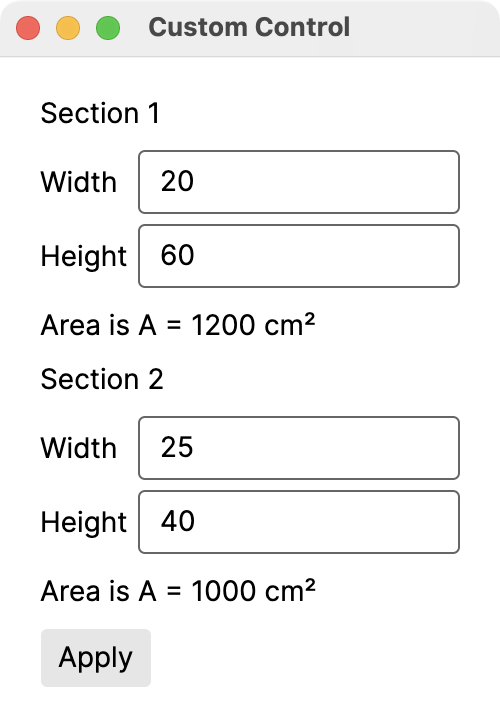
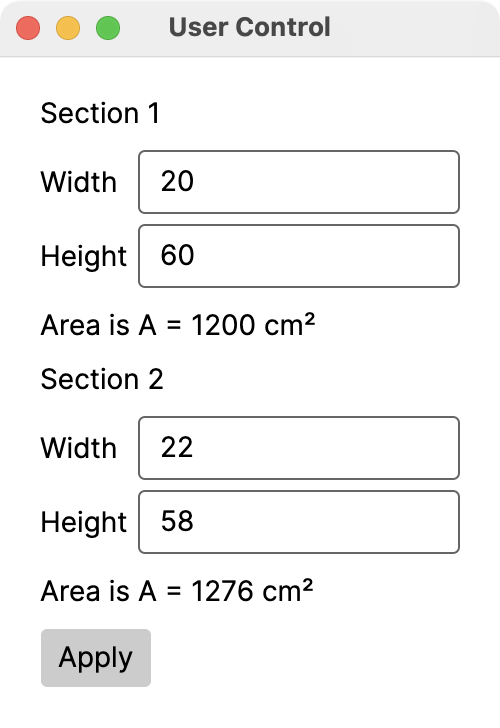
WIP

diff --git a/bausteine/10-gui/folien/projekt/11-recipe-datagrid/MainWindow.axaml.cs b/bausteine/10-gui/folien/projekt/11-recipe-datagrid/MainWindow.axaml.cs
@@ -17,14 +17,14 @@ public partial class MainWindow : Window
         this.InitializeComponent();
 
         this.PersonsDG.ItemsSource = this.Persons;
-        this.PersonsDG.AutoGeneratingColumn += this.ColumnGenerated;
+        this.PersonsDG.AutoGeneratingColumn += this.OnColumnGenerated;
 
-        this.AddRowB.Click += this.AddRowClicked;
-        this.DeleteRowB.Click += this.DeleteRowClicked;
-        this.PrintB.Click += this.PrintClicked;
+        this.AddRowB.Click += this.OnAddRowClicked;
+        this.DeleteRowB.Click += this.OnDeleteRowClicked;
+        this.PrintB.Click += this.OnPrintClicked;
     }
 
-    private void ColumnGenerated(object? sender, DataGridAutoGeneratingColumnEventArgs e)
+    public void OnColumnGenerated(object? sender, DataGridAutoGeneratingColumnEventArgs e)
     {
         if (e.PropertyName == "Age")
         {
@@ -32,7 +32,7 @@ public partial class MainWindow : Window
         }
     }
 
-    private void AddRowClicked(object? sender, RoutedEventArgs e)
+    public void OnAddRowClicked(object? sender, RoutedEventArgs e)
     {
         int row = this.PersonsDG.SelectedIndex;
 
@@ -46,7 +46,7 @@ public partial class MainWindow : Window
         }
     }
 
-    private void DeleteRowClicked(object? sender, RoutedEventArgs e)
+    public void OnDeleteRowClicked(object? sender, RoutedEventArgs e)
     {
         int row = this.PersonsDG.SelectedIndex;
 
@@ -56,7 +56,7 @@ public partial class MainWindow : Window
         }
     }
 
-    private void PrintClicked(object? sender, RoutedEventArgs e)
+    public void OnPrintClicked(object? sender, RoutedEventArgs e)
     {
         foreach (Person p in this.Persons)
         {

diff --git a/bausteine/10-gui/folien/projekt/13-good-to-know-user-control/MainWindow.axaml.cs b/bausteine/10-gui/folien/projekt/13-good-to-know-user-control/MainWindow.axaml.cs
@@ -8,10 +8,10 @@ public partial class MainWindow : Window
     public MainWindow()
     {
         this.InitializeComponent();
-        this.ApplyB.Click += this.ApplyClicked;
+        this.ApplyB.Click += this.OnApplyClicked;
     }
 
-    private void ApplyClicked(object? sender, RoutedEventArgs e)
+    public void OnApplyClicked(object? sender, RoutedEventArgs e)
     {
         RectangularSection s1 = this.Section1Ctrl.CreateSection();
         this.Area1TBl.Text = $"Area is A = {s1.A()} cm²";

diff --git a/bausteine/10-gui/folien/projekt/13-good-to-know-user-control/RectangularSection.cs b/bausteine/10-gui/folien/projekt/13-good-to-know-user-control/RectangularSection.cs
@@ -1,3 +1,5 @@
+namespace good_to_know_user_control;
+
 public class RectangularSection
 {
 
